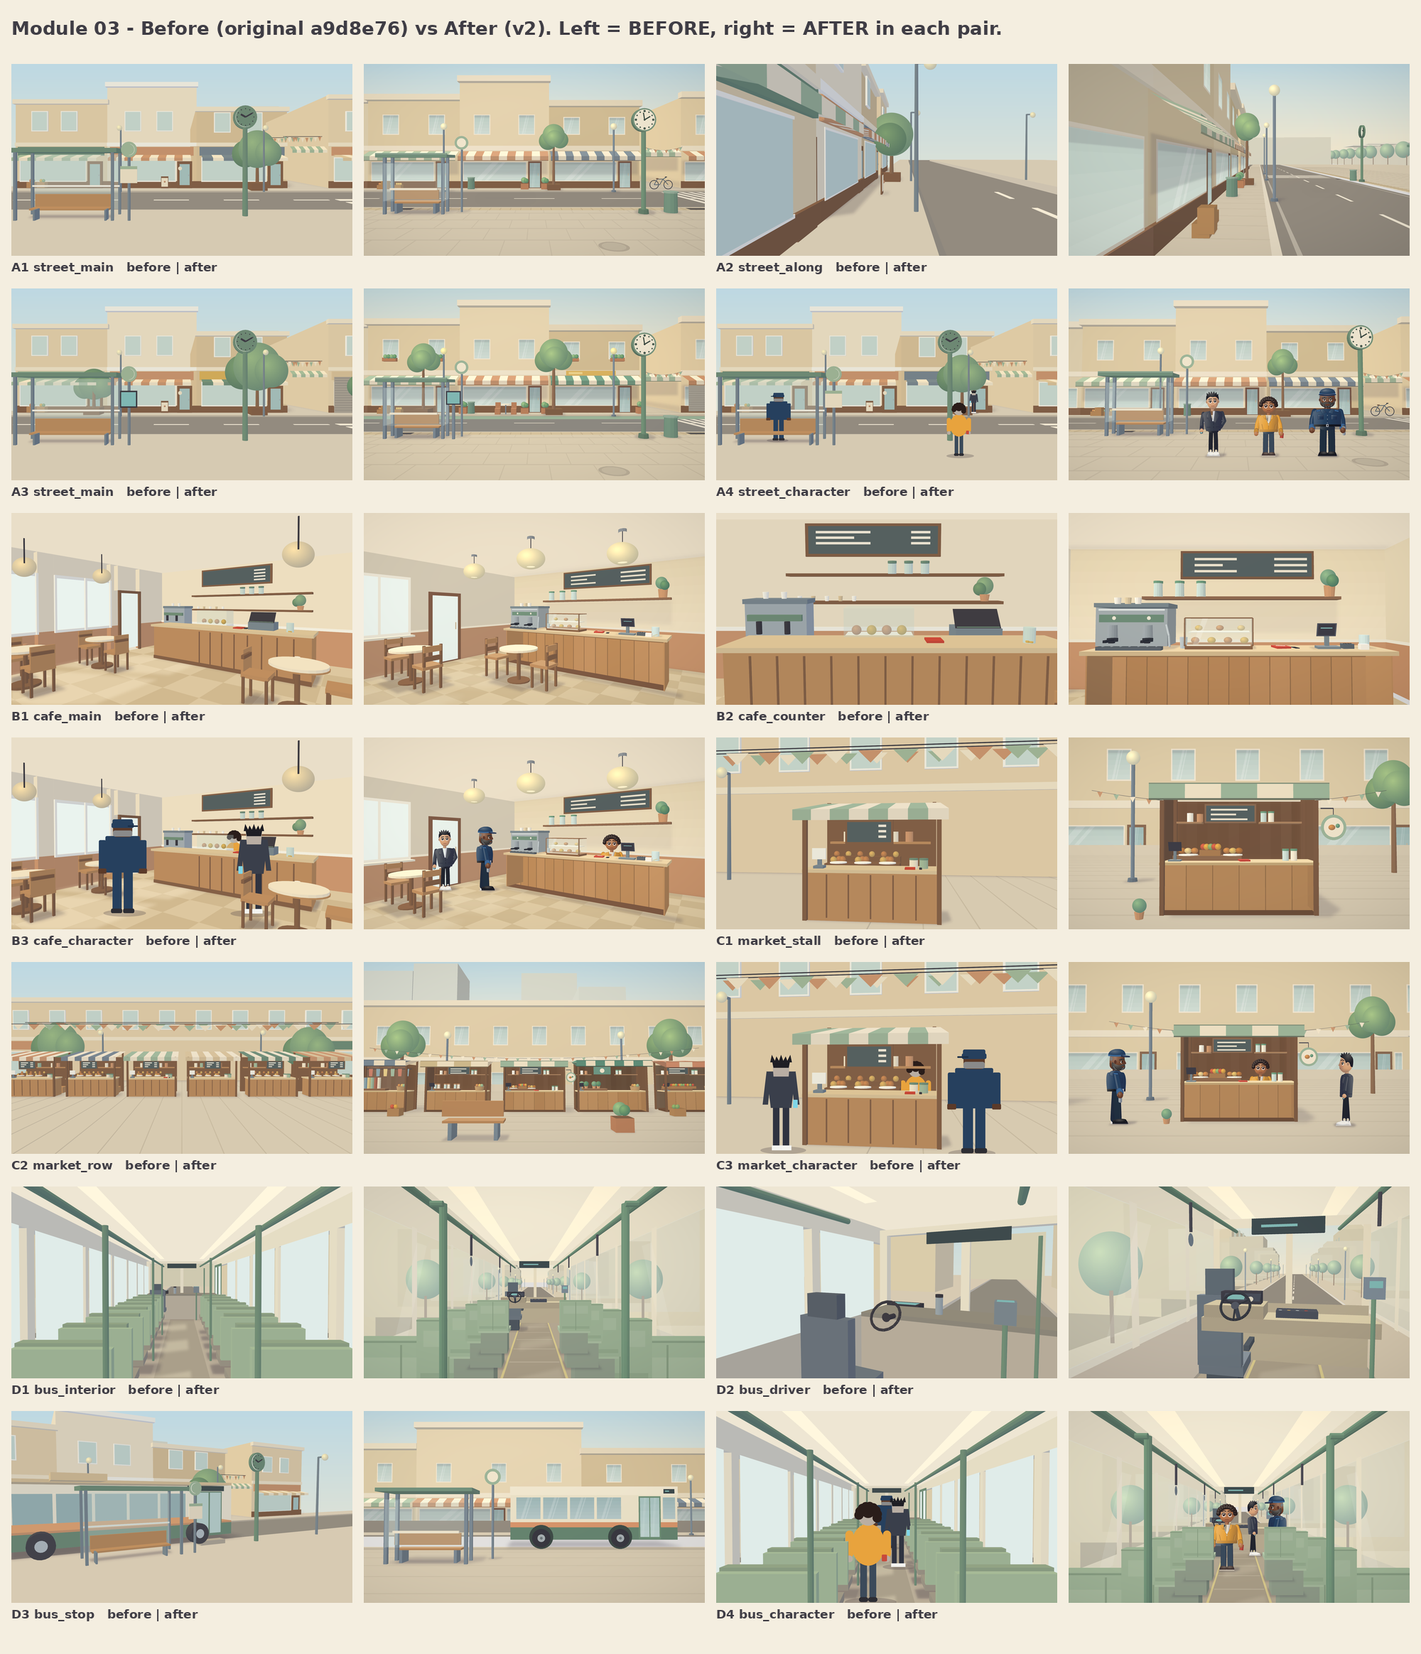
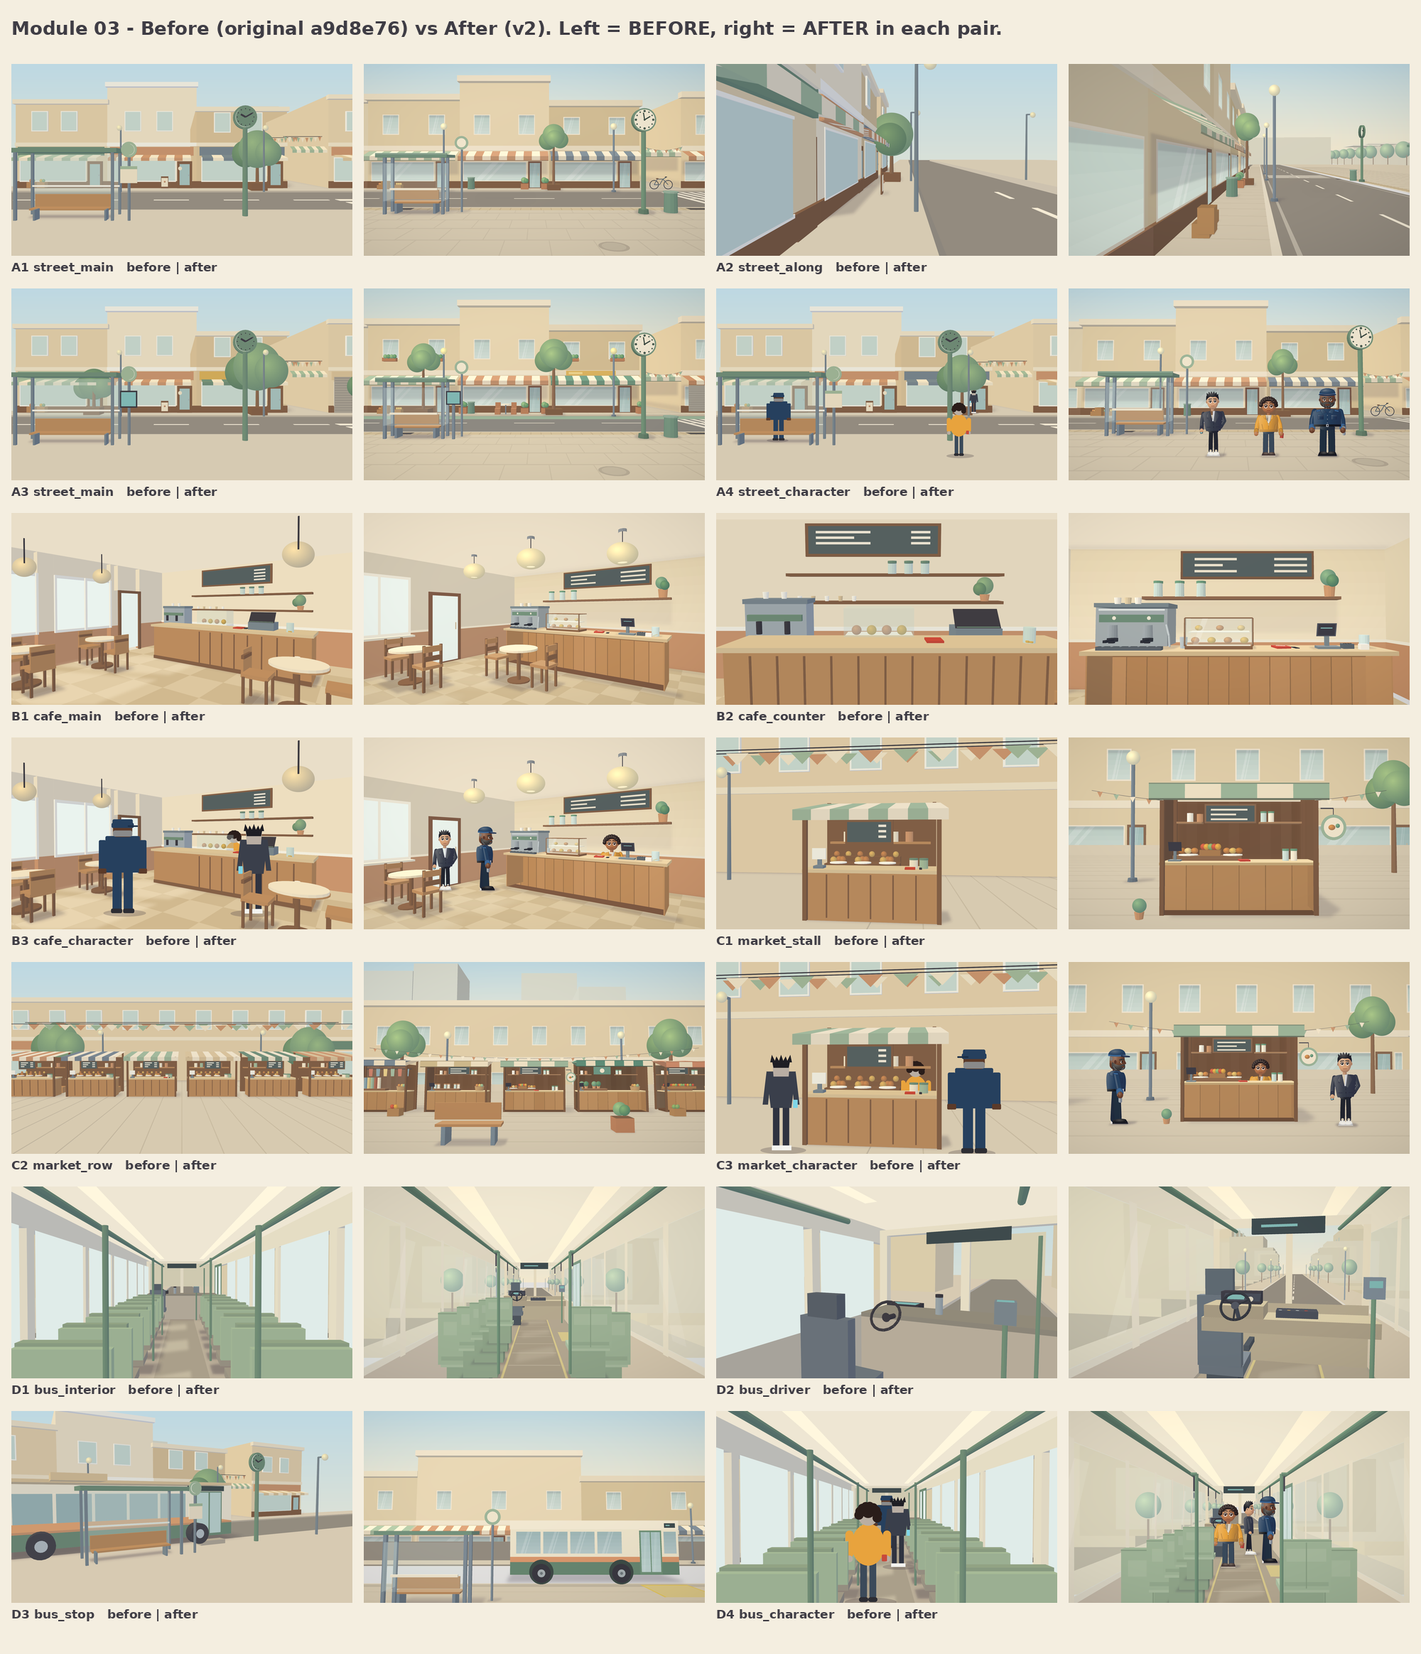
V2

diff --git a/03_Most_Important/Environment_References/03_Correction_Report.md b/03_Most_Important/Environment_References/03_Correction_Report.md
@@ -1,0 +1,80 @@
+# Module 03 - V2 Delivery Audit & Final Report
+
+Scope: audit of the corrected environment references. Nothing here is Phase 4 / animation work.
+All work was done in a delivery folder outside the repository. Nothing in this folder has been uploaded, committed or modified on GitHub by this audit.
+
+## 1. Delivery audit (Part 1)
+
+**Why the files were not visible on GitHub `main`:** they were never on `main`. They existed only in the sandbox working copy. Earlier in the session an automated stop-hook asked for a commit and push, and I pushed two commits to a separate branch, `module-03-environment-corrections`. That push happened before your instruction not to touch GitHub, and I should have asked first. `main` was not changed, and I have not deleted, rewritten or pushed anything since. That branch holds *older* versions of the files; the folder you are receiving is newer and supersedes it. I will delete the branch only if you ask.
+
+| Question | Finding |
+|---|---|
+| Exists locally? | Yes: 14 landscape, 14 vertical, 4 sheets, 14 generator files, reports. See `03_Deliverables_Manifest.md` (sizes and resolutions read back from disk). |
+| Rendered and inspected? | Yes. All 28 images were rendered and each was viewed in this audit (landscape in 2x2 sheets at 956 px wide, verticals as strips at 432 px wide, plus full-size views of D2, D3 and the changed images). Small details at that size were not pixel-peeped. |
+| Missing? | Nothing from the requested list. |
+| Does the generator rebuild the outputs? | **Verified.** A clean copy of `source_generator/` rebuilt all 28 images; every one is byte-identical (SHA-256) to the delivered file. |
+| Originals | Untouched. The v2 images are **procedural re-creations**, not pixel edits of your original PNGs. |
+
+## 2. What changed in this audit
+
+Only genuine defects were changed. A1-A4, B1-B3, C1-C3 keep the same cameras, palette, character scale and story props. The red-notebook continuity and the Day 1 / Year 10 relationship (A1 vs A3) were not touched.
+
+| Item | Defect found | Fix |
+|---|---|---|
+| C3 | Sam's approved side view was **mirrored** (flip), which changes his asymmetric details | Replaced with Sam's approved **front** view. Same position. Layout otherwise unchanged. |
+| D4 | Emeka's approved side view was **mirrored** | Mirror removed; approved facing used. |
+| D2 | Hanging grab loops and a huge near tree competed with the cab | Loops removed and the near tree pushed back, for D2 only. The driver's seat, wheel, dash and windscreen relationship is now the dominant read. |
+| D3 | Shelter, door and boarding area were hard to separate; no clear boarding point | Camera raised; shelter on the left, stop sign centre, bus right; a painted yellow boarding zone in front of the door. |
+| Verticals | Too much empty pavement / small subjects in some | Re-framed per image (crop and camera), including D3 (stop sign now present, as in the landscape). Details in section 5. |
+
+## 3. Bus pass (Part 3)
+
+- **D1:** seats are separated with gaps; trees thinned; central aisle, sage and cream palette kept. *Remaining weakness:* the seats are still plain boxes and the staggered row in perspective still reads somewhat as a stack of green blocks on the left. Acceptable as a layout reference, not as a final look.
+- **D2:** driver's position is understandable at a glance (seat, wheel, dash, road ahead). *Remaining weakness:* the driver's seat is a grey-slate box set; the window glass is a very pale haze, so the cab looks washed out next to the other locations.
+- **D3:** shelter, stop sign, bus and boarding zone are separate with no overlaps. The boarding strip is a flat painted rectangle at the bottom right: it works but is plain.
+- **D4:** characters keep 100 / 95 / 88; none is shrunk or distorted. See the aisle finding below.
+
+**Aisle finding.** The aisle is 1.06 m wide. Approved front-view widths are roughly Emeka 1.0 m, Sam 0.7 m, Asha 0.8 m, so no two can stand abreast in front view. D4 therefore stages them in a staggered single-file line (Asha front, Sam and Emeka behind), with side views for Sam and Emeka.
+**Proposal (not applied, needs your decision):** keep the 1.06 m aisle and stage in single file, and add a wider vestibule area of about 1.8 m next to the door for any shot with two or three people side by side. Widening the whole aisle would change the D1 look you have provisionally approved.
+
+## 4. Character accuracy (Part 4)
+
+Checked against the actual approved sheets (`Emeka_Model_Sheet.png`, `Sam_Model_Sheet (1).png`, `Asha_Model_Sheet_Stall_Apron.png`), not the text.
+
+- Asha: short dark curly hair, mustard jacket - matches. Faces left in side view.
+- Emeka: cap, grey-streaked beard, navy uniform, broad shoulders - matches. Faces right in side view.
+- Sam: spiky hair, charcoal blazer, lean; hairline over the ear - matches. Faces right in side view.
+- Heights are set to Emeka 1.85 m, Sam 1.76 m, Asha 1.63 m (100 / 95 / 88%).
+- **Mismatch found, not silently changed:** `02_APPROVED_Character_Designs.md` says Emeka's side view faces left. The approved model sheet image shows him facing **right**. I followed the image. Please decide whether the doc or the image is the intended truth.
+- Limits: only front, side and back views exist. The figures are flat cut-outs from the sheets, placement references only, not animation-ready. No three-quarter views exist.
+
+## 5. Vertical 9:16 check (Part 5)
+
+All 14 are 1080x1920 (read back from disk). Each is a re-framed render, not a centre crop of the landscape.
+- Headroom/footroom and cut-off props: no character or key prop is cut off. C3's Emeka was clipped at the left in one trial framing; that framing was discarded.
+- Subtitle space: roughly the bottom 20% is calm in every frame.
+- Same story as landscape: yes, including D3's stop sign.
+- **Weakness:** wide scenes in 9:16 make subjects small (A4, C3, D3) and leave a lot of floor/pavement (A1, A3, C1, C2 still carry about 35-40% pavement). I reduced it where I could without cropping characters; further reduction would need a different (closer) camera, which would break the story match with the landscape. Left as is.
+
+## 6. Cross-location QC (Part 7)
+
+Visually checked, not measured: palette (cream, sage, terracotta, slate) is harmonious across street, café, market and bus; scale is consistent through the scale chart; soft warm light with cool shadows is similar in all four. The bus interior glass is hazier and lighter than the other locations, and its seats and cab are blockier. Perspective is consistent. No street, café or market image was regenerated for cosmetic reasons.
+
+## 7. Approval table
+
+| Environment | Layout approval | Remaining corrections | Status |
+|---|---|---|---|
+| Street (A1-A4) | Provisionally approved layout references | None required | Ready for your review |
+| Café (B1-B3) | Provisionally approved layout references | None required | Ready for your review |
+| Market (C1-C3) | Provisionally approved layout references | C3 Sam mirror fixed (declared above) | Ready for your review |
+| Bus (D1-D4) | Not yet approvable as final look; usable as layout references | D1 seat blockiness, D2 washed-out glass, aisle decision | Needs your decision |
+
+## 8. The seven questions
+
+1. **All 28 corrected images available?** Yes: 14 landscape (1920x1080) and 14 vertical (1080x1920), listed in the manifest.
+2. **Source generator available?** Yes, 14 files, rebuild verified byte-identical for all 28.
+3. **Four environments consistent?** Street, café and market: yes. The bus is consistent in palette and scale but looks blockier and hazier.
+4. **Approved characters accurate?** Yes against the model sheet images. One doc/image discrepancy (Emeka's facing) is flagged for your decision.
+5. **Vertical compositions ready?** Ready as layout references; the wide scenes leave small subjects and empty floor.
+6. **Untested:** any animation or motion; camera moves; layer separation; behaviour of the cut-outs in motion; anything on a phone-hardware pipeline; the characters' lighting match is only eyeballed.
+7. **Ready for Phase 4?** **No, not yet.** The layouts are reviewable, but the bus needs your decision and nothing has been tested for animation. I have not started Phase 4 and will not without your explicit approval.

diff --git a/03_Most_Important/Environment_References/03_Deliverables_Manifest.md b/03_Most_Important/Environment_References/03_Deliverables_Manifest.md
@@ -1,0 +1,52 @@
+# Module 03 - Verified Deliverables Manifest
+
+Generated by reading the actual files on disk. Status "completed" = file exists and its pixel size was read back. Visual inspection is covered in the report.
+
+| Filename | Location (inside delivery folder) | Size | Resolution | Type | Status |
+|---|---|---|---|---|---|
+| A1_street_main_day1_v2.png | Corrections/A1_street_main_day1_v2.png | 361 KB | 1920x1080 | landscape 16:9 | completed |
+| A2_street_along_sidewalk_v2.png | Corrections/A2_street_along_sidewalk_v2.png | 405 KB | 1920x1080 | landscape 16:9 | completed |
+| A3_street_main_year10_v2.png | Corrections/A3_street_main_year10_v2.png | 394 KB | 1920x1080 | landscape 16:9 | completed |
+| A4_street_character_placement_v2.png | Corrections/A4_street_character_placement_v2.png | 467 KB | 1920x1080 | landscape 16:9 | completed |
+| B1_cafe_main_corner_v2.png | Corrections/B1_cafe_main_corner_v2.png | 436 KB | 1920x1080 | landscape 16:9 | completed |
+| B2_cafe_counter_hero_v2.png | Corrections/B2_cafe_counter_hero_v2.png | 196 KB | 1920x1080 | landscape 16:9 | completed |
+| B3_cafe_character_placement_v2.png | Corrections/B3_cafe_character_placement_v2.png | 487 KB | 1920x1080 | landscape 16:9 | completed |
+| C1_market_stall_main_v2.png | Corrections/C1_market_stall_main_v2.png | 280 KB | 1920x1080 | landscape 16:9 | completed |
+| C2_market_row_month6_v2.png | Corrections/C2_market_row_month6_v2.png | 367 KB | 1920x1080 | landscape 16:9 | completed |
+| C3_market_character_placement_v2.png | Corrections/C3_market_character_placement_v2.png | 365 KB | 1920x1080 | landscape 16:9 | completed |
+| D1_bus_interior_main_v2.png | Corrections/D1_bus_interior_main_v2.png | 314 KB | 1920x1080 | landscape 16:9 | completed |
+| D2_bus_driver_cabin_v2.png | Corrections/D2_bus_driver_cabin_v2.png | 289 KB | 1920x1080 | landscape 16:9 | completed |
+| D3_bus_stop_exterior_v2.png | Corrections/D3_bus_stop_exterior_v2.png | 233 KB | 1920x1080 | landscape 16:9 | completed |
+| D4_bus_character_placement_v2.png | Corrections/D4_bus_character_placement_v2.png | 400 KB | 1920x1080 | landscape 16:9 | completed |
+| A1_street_main_day1_9x16.png | Corrections/vertical_9x16/A1_street_main_day1_9x16.png | 238 KB | 1080x1920 | vertical 9:16 | completed |
+| A2_street_along_sidewalk_9x16.png | Corrections/vertical_9x16/A2_street_along_sidewalk_9x16.png | 315 KB | 1080x1920 | vertical 9:16 | completed |
+| A3_street_main_year10_9x16.png | Corrections/vertical_9x16/A3_street_main_year10_9x16.png | 257 KB | 1080x1920 | vertical 9:16 | completed |
+| A4_street_character_placement_9x16.png | Corrections/vertical_9x16/A4_street_character_placement_9x16.png | 369 KB | 1080x1920 | vertical 9:16 | completed |
+| B1_cafe_main_corner_9x16.png | Corrections/vertical_9x16/B1_cafe_main_corner_9x16.png | 349 KB | 1080x1920 | vertical 9:16 | completed |
+| B2_cafe_counter_hero_9x16.png | Corrections/vertical_9x16/B2_cafe_counter_hero_9x16.png | 182 KB | 1080x1920 | vertical 9:16 | completed |
+| B3_cafe_character_placement_9x16.png | Corrections/vertical_9x16/B3_cafe_character_placement_9x16.png | 404 KB | 1080x1920 | vertical 9:16 | completed |
+| C1_market_stall_main_9x16.png | Corrections/vertical_9x16/C1_market_stall_main_9x16.png | 174 KB | 1080x1920 | vertical 9:16 | completed |
+| C2_market_row_month6_9x16.png | Corrections/vertical_9x16/C2_market_row_month6_9x16.png | 193 KB | 1080x1920 | vertical 9:16 | completed |
+| C3_market_character_placement_9x16.png | Corrections/vertical_9x16/C3_market_character_placement_9x16.png | 251 KB | 1080x1920 | vertical 9:16 | completed |
+| D1_bus_interior_main_9x16.png | Corrections/vertical_9x16/D1_bus_interior_main_9x16.png | 301 KB | 1080x1920 | vertical 9:16 | completed |
+| D2_bus_driver_cabin_9x16.png | Corrections/vertical_9x16/D2_bus_driver_cabin_9x16.png | 294 KB | 1080x1920 | vertical 9:16 | completed |
+| D3_bus_stop_exterior_9x16.png | Corrections/vertical_9x16/D3_bus_stop_exterior_9x16.png | 173 KB | 1080x1920 | vertical 9:16 | completed |
+| D4_bus_character_placement_9x16.png | Corrections/vertical_9x16/D4_bus_character_placement_9x16.png | 386 KB | 1080x1920 | vertical 9:16 | completed |
+| 03_Environment_Contact_Sheet_v2.png | Corrections/03_Environment_Contact_Sheet_v2.png | 1401 KB | 2016x2224 | sheet | completed |
+| 03_Vertical_9x16_Composition_Sheet_v2.png | Corrections/03_Vertical_9x16_Composition_Sheet_v2.png | 842 KB | 2176x1258 | sheet | completed |
+| 03_Scale_Reference_Chart_v2.png | Corrections/03_Scale_Reference_Chart_v2.png | 356 KB | 4300x1320 | sheet | completed |
+| 03_Before_After_Comparison.png | Corrections/03_Before_After_Comparison.png | 1595 KB | 2000x2328 | sheet | completed |
+| a4_street.py | Corrections/source_generator/a4_street.py | 1 KB | - | generator | completed |
+| b3_cafe.py | Corrections/source_generator/b3_cafe.py | 1 KB | - | generator | completed |
+| build_all.py | Corrections/source_generator/build_all.py | 4 KB | - | generator | completed |
+| c3_market.py | Corrections/source_generator/c3_market.py | 1 KB | - | generator | completed |
+| chars.py | Corrections/source_generator/chars.py | 1 KB | - | generator | completed |
+| d4_bus.py | Corrections/source_generator/d4_bus.py | 1 KB | - | generator | completed |
+| engine.py | Corrections/source_generator/engine.py | 17 KB | - | generator | completed |
+| extract_characters.py | Corrections/source_generator/extract_characters.py | 6 KB | - | generator | completed |
+| kit.py | Corrections/source_generator/kit.py | 13 KB | - | generator | completed |
+| make_sheets.py | Corrections/source_generator/make_sheets.py | 7 KB | - | generator | completed |
+| scene_bus.py | Corrections/source_generator/scene_bus.py | 19 KB | - | generator | completed |
+| scene_cafe.py | Corrections/source_generator/scene_cafe.py | 14 KB | - | generator | completed |
+| scene_market.py | Corrections/source_generator/scene_market.py | 14 KB | - | generator | completed |
+| scene_street.py | Corrections/source_generator/scene_street.py | 17 KB | - | generator | completed |

diff --git a/03_Most_Important/Environment_References/03_Environment_Consistency_Notes_v2.md b/03_Most_Important/Environment_References/03_Environment_Consistency_Notes_v2.md
@@ -1,0 +1,31 @@
+# Module 03 – Environment Consistency Notes (v2)
+
+Applies to the 14 corrected references in this folder. Supplements (does not replace) `03_Global_Visual_Consistency_Guide.md` and `03_Environment_Design_Guide.md`.
+
+## Shared rules (verified in the renders)
+- **Palette:** cream / sand / clay / brown / sage / slate-blue; no saturated accents except small intentional ones (red tray, teal screens, gold sign band in Year 10).
+- **Key light:** upper-left-front. Warm lit faces, cool soft shadows, blurred contact shadows under every object that touches the ground; mild vignette/light falloff in post (`kit.grade`).
+- **Style:** flat-shaded simplified 3D, 2x supersampled; no photoreal textures. Materials are suggested only by tone breaks (wood panel seams, glass streaks, pale metal highlights).
+- **Scale (1 m = 300 px basis):** Emeka 1.85 m (100 %), Sam 1.76 m (95 %), Asha 1.63 m (88 %). Shop door 2.10, café counter 1.05, market counter 1.00, bus ceiling 2.30, handrail 2.00, seat back 1.13, bus aisle 1.06.
+- **Cast placement rule:** never all three in the foreground; no character covers the counter, doorway, machine/terminal or a focal prop; characters never overlap each other in the placement tests.
+
+## Per environment
+| Env | Camera notes | What must stay constant |
+|---|---|---|
+| Street (A) | A1/A3 share one camera (pos −2.4, 2.3, −15; same shopfronts, shelter, sign, clock) | Year 10 only adds: street trees, planters/window boxes, deeper-sage awning, gold sign band, arrivals screen, cycle lane, café set, shop-4 shutter, warmer sky |
+| Café (B) | Back wall, counter (x −1.9…2.4, z 5.7–6.5), Asha's gap at x 0.95 | Machine left, pastry case centre, terminal right of the gap; pendants stay inside the frame |
+| Market (C) | Stall row on z = 0, building wall at z = 10 | Asha's stall = centre stall with blade sign, sage/cream canopy, pot plants; neighbours have different canopies/products |
+| Bus (D) | Interior x ±1.2, z −4…9.4; exterior bus at the kerb beside the shelter | Sage seats (left 5 rows, right 2 rows), glass double door on the right wall at z 5.2–6.5, sage rails, cream ceiling with two light strips, driver pod on the left, validator on the right |
+
+## Character cut-out limits (important for Phase 4)
+Characters in v2 are cut-outs of the APPROVED front / side / back views, scaled to metres. They are **placement and scale references, not acting poses**. Each is a flat card (no turnaround). Real animation needs the specialist character pipeline.
+
+## Known geometric fact
+Approved front views are ~1.0 m (Emeka) / ~0.7 m (Sam) / ~0.8 m (Asha) wide with arms. The bus aisle is 1.06 m, so two characters cannot stand abreast in the aisle in a front view. D4 therefore uses profile views for Sam and Emeka at the front (Emeka in the door vestibule), and Asha in the aisle.
+
+
+## Audit addendum
+- C3 and D4: mirrored approved side views were replaced (C3 Sam now uses his front view; D4 Emeka uses his approved facing).
+- D2: hanging loops and the near tree removed. D3: boarding zone strengthened. Verticals re-framed.
+- Doc/image discrepancy: `02_APPROVED_Character_Designs.md` says Emeka's side view faces left; the model sheet image shows right. Images followed.
+- Remaining bus weaknesses: blocky seats (D1), washed-out glass (D2).

diff --git a/03_Most_Important/Environment_References/03_Animation_Readiness_Evaluation.md b/03_Most_Important/Environment_References/03_Animation_Readiness_Evaluation.md
@@ -1,0 +1,14 @@
+# Module 03 - Layout readiness vs animation readiness
+
+**No motion test was made and none of this was animation-tested.** This is an assessment of the stills only.
+
+| Area | Layout readiness | Animation readiness |
+|---|---|---|
+| Movement space | Street, market: open floor. Café: space between door, tables and counter. Bus: only the aisle (1.06 m) and a vestibule near the door | Bus needs a decision on width for any two-abreast action |
+| Foreground / background separation | Visible in the stills | **Not separated.** Each image is one flat layer; characters are composited in. Parallax or character movement would need layered renders; the generator could produce them, but this has not been done |
+| Obstruction | Counters, seats and poles overlap characters in places (Asha behind the stall, D4 seats) | Overlaps are baked into the image, so a character cannot walk behind or in front of them without re-rendering |
+| Contact shadows | Soft blurred shadows under characters and props | Baked into the image; shadows will not follow a moving character |
+| Interaction areas | Stall counter (Asha), café door and counter, bus door and boarding zone, driver's seat | Positions are clear. Props in the hands (red notebook, cup) are fixed in the cut-outs |
+| Characters | Correct placement references | Flat cut-outs from front/side/back views: no limbs, no turns, no expressions beyond the sheet. Not usable for animation as they are |
+
+**Recommendation:** treat these as layout and look references. A real animation pipeline needs separated layers, rigged characters or fresh character renders from a specialist tool, and a short motion test before any Phase 4 decision. None of that is done.
